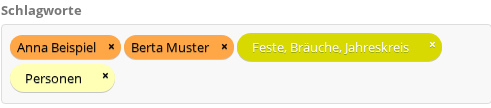
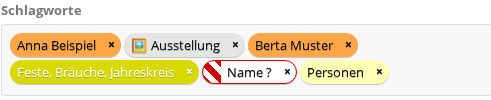
handbuch: the four special tag groups, typing a new tag, tags in the file
The tags page explains Kategorie ? and Name ? (owner's meaning), Ausstellung
and the groups that stay local, Freitext, the picture page's new-tag field
and that tags are written into the photo file. The demo photo carries a
striped and an emoji tag; shots 09, 11-15, 17, 18 and 22 re-taken (09 and
13 after the admin chip fix).

diff --git a/handbuch/04-schlagworte.html b/handbuch/04-schlagworte.html
@@ -15,7 +15,9 @@
   der Verwaltung unter <span class="pwgScreen">Schlagworte</span>
   (<code>admin.php?page=tags</code>) angelegt und dort oder an einem einzelnen Foto zugeordnet.
   Ein Teil der Schlagworte trägt eine Farbe. Farbige Schlagworte können angemeldete Benutzer
-  auch direkt auf der Fotoseite setzen, ohne Zugang zur Verwaltung.
+  auch direkt auf der Fotoseite setzen, ohne Zugang zur Verwaltung, und dort auch ein neues
+  Schlagwort eintippen. Die Schlagworte eines Fotos werden außerdem in seine Bilddatei
+  geschrieben, siehe <a href="#bilddatei">Schlagworte in der Bilddatei</a>.
 </p>
 
 <h3>Schlagworte anlegen, umbenennen und löschen</h3>
@@ -125,6 +127,12 @@
   <figcaption>Die Schlagworte eines Fotos. Farbige Schlagworte tragen ihre Farbe, die übrigen die Standardfarbe des Feldes.</figcaption>
 </figure>
 
+<p>
+  Ein Name, den es noch nicht gibt, wird beim Sichern als neues Schlagwort angelegt und kommt
+  in die Gruppe <strong>Freitext</strong>, siehe
+  <a href="#besondere">Die vier besonderen Gruppen</a>.
+</p>
+
 <div class="hinweis">
   <p>
     Beim Sichern ersetzt die Liste im Feld die bisherigen Schlagworte des Fotos vollständig.
@@ -138,7 +146,8 @@
 <p>
   Ein Schlagwort kann eine Farbe bekommen. Farbige Schlagworte werden überall als farbige
   Plakette dargestellt und sind dadurch auf einen Blick von den übrigen zu unterscheiden. In
-  dieser Galerie sind acht Schlagworte farbig:
+  dieser Galerie gibt es zwölf Farben (im Folgenden auch Gruppen genannt). Elf davon tragen je
+  ein gleichnamiges Schlagwort; diese acht sind die Themen:
 </p>
 
 <ul>
@@ -151,6 +160,10 @@
   <li>Stationen durch das Leben</li>
   <li>Vereine, Gruppierungen</li>
 </ul>
+
+<p>
+  Die übrigen vier sind besondere Gruppen mit eigener Bedeutung, siehe den nächsten Abschnitt.
+</p>
 
 <p>Eine Farbe wird in der Schlagwortverwaltung vergeben:</p>
 
@@ -173,6 +186,48 @@
   </li>
 </ol>
 
+<h3 id="besondere">Die vier besonderen Gruppen</h3>
+
+<p>
+  Vier Farben sehen anders aus als die übrigen: zwei tragen am linken Rand einen rot-weiß
+  gestreiften Rand, zwei ein kleines Bild vor dem Namen.
+</p>
+
+<ul>
+  <li>
+    <strong>Kategorie ?</strong> (rot-weiß gestreift): ein Merkzeichen für ein Foto, bei dem
+    noch offen ist, zu welchem der farbigen Schlagworte es gehört. Ist das geklärt, das
+    passende Schlagwort setzen und <strong>Kategorie ?</strong> wieder entfernen.
+  </li>
+  <li>
+    <strong>Name ?</strong> (rot-weiß gestreift): ein Merkzeichen für ein Foto, auf dem noch
+    nicht alle Personen erkannt sind. Ist der Name bekannt, die Person markieren (siehe
+    <a href="05-personen.html">Personen auf Fotos markieren</a>) und
+    <strong>Name ?</strong> wieder entfernen.
+  </li>
+  <li>
+    <strong>Ausstellung</strong> (mit einem gerahmten Bild davor): kennzeichnet Fotos für eine
+    Ausstellung.
+  </li>
+  <li>
+    <strong>Freitext</strong> (mit einer schreibenden Hand davor): sammelt die Schlagworte, die
+    beim Zuordnen neu eingetippt wurden, auf der Fotoseite ebenso wie in den Eigenschaften
+    eines Fotos oder in der Stapelverarbeitung. Jedes davon trägt die schreibende Hand. Ein
+    Schlagwort, das in der Schlagwortverwaltung mit <strong>Schlagwort hinzufügen</strong>
+    angelegt wird, kommt nicht hierher.
+  </li>
+</ul>
+
+<div class="hinweis">
+  <p>
+    Schlagworte mit der Farbe <strong>Ausstellung</strong>, <strong>Kategorie ?</strong> oder
+    <strong>Name ?</strong>, gleich wie sie heißen, sowie jedes Schlagwort und jede Farbe mit
+    einem Fragezeichen im Namen bleiben in dieser Galerie. Sie
+    werden nicht in die Bilddatei geschrieben und erscheinen deshalb auch nicht in der
+    Online-Galerie, die aus den Bilddateien aufgebaut wird.
+  </p>
+</div>
+
 <h3>Farbige Schlagworte auf der Fotoseite setzen</h3>
 
 <p>
@@ -185,12 +240,12 @@
 
 <figure>
   <img src="assets/screenshots/14-schlagwort-badges.png" alt="Die vergebenen Schlagworte eines Fotos" />
-  <figcaption>Vergebene Schlagworte. Farbige tragen ein x zum Entfernen.</figcaption>
+  <figcaption>Vergebene Schlagworte. Farbige tragen ein x zum Entfernen; Name ? ist gestreift, Ausstellung trägt sein Bild.</figcaption>
 </figure>
 
 <figure>
-  <img src="assets/screenshots/15-schlagwort-hinzufuegen.png" alt="Noch nicht vergebene farbige Schlagworte" />
-  <figcaption>Die noch nicht vergebenen farbigen Schlagworte, jeweils mit einem Pluszeichen.</figcaption>
+  <img src="assets/screenshots/15-schlagwort-hinzufuegen.png" alt="Noch nicht vergebene farbige Schlagworte und das Feld für ein neues Schlagwort" />
+  <figcaption>Die noch nicht vergebenen farbigen Schlagworte, jeweils mit einem Pluszeichen, darunter das Feld für ein neues Schlagwort.</figcaption>
 </figure>
 
 <ul>
@@ -203,14 +258,46 @@
     <strong>Entfernen</strong>: auf das <strong>x</strong> einer vergebenen farbigen Plakette
     klicken. Der Kurzhinweis lautet <em>Schlagwort entfernen</em>.
   </li>
+  <li>
+    <strong>Eintippen</strong>: den Namen in das Feld <strong>Neues Schlagwort
+    eingeben</strong> schreiben und <strong>Hinzufügen</strong> klicken oder die Eingabetaste
+    drücken. Ein neuer Name wird als Schlagwort angelegt und kommt in die Gruppe
+    <strong>Freitext</strong>. Gibt es den Namen schon, wird das vorhandene Schlagwort
+    zugeordnet und behält seine Farbe. Schlägt das fehl, steht der Grund neben dem Feld und
+    der eingetippte Text bleibt stehen.
+  </li>
 </ul>
 
 <p>
-  Beides wirkt sofort, ohne Speichern. Vergebene Schlagworte stehen in einer Zeile, durch
-  Kommas getrennt; farbige als Plakette, farblose als schlichter Text. Schlagworte ohne Farbe
-  lassen sich hier nicht ändern und werden in der Verwaltung gepflegt. Nicht angemeldete
-  Besucher sehen weder das <strong>+</strong> noch das <strong>x</strong>.
+  Alles wirkt sofort, ohne Speichern. Vergebene Schlagworte stehen in einer Zeile, durch
+  Kommas getrennt; farbige als Plakette, farblose als schlichter Text. Ein Schlagwort ohne
+  Farbe lässt sich hier nur durch Eintippen seines Namens zuordnen; entfernt wird es in der
+  Verwaltung. Nicht angemeldete Besucher sehen weder das <strong>+</strong> noch das
+  <strong>x</strong> noch das Feld.
 </p>
+
+<h3 id="bilddatei">Schlagworte in der Bilddatei</h3>
+
+<p>
+  Ändern sich die Schlagworte eines Fotos, auf welchem Weg auch immer, werden sie auch in die
+  Bilddatei geschrieben, zusammen mit dem Namen ihrer Farbe. Andere Bildprogramme zeigen sie
+  dann als Stichwörter der Datei. Ausgenommen sind die Schlagworte, die nur in dieser Galerie
+  bleiben (siehe <a href="#besondere">Die vier besonderen Gruppen</a>).
+</p>
+
+<ul>
+  <li>
+    Geschrieben wird nur, wenn sich an den Schlagworten eines Fotos etwas ändert. Ein Foto,
+    dessen Schlagworte seit Einführung dieser Funktion nicht bearbeitet wurden, trägt sie
+    noch nicht in seiner Datei.
+  </li>
+  <li>
+    Kann die Datei nicht geschrieben werden, zeigt die Verwaltung nach dem Sichern oben eine
+    Fehlermeldung, die mit <em>Photo Info:</em> beginnt. Die Schlagworte sind dann in der
+    Galerie gespeichert, die Datei blieb unverändert. In dem Fall die Verwaltung der Galerie
+    benachrichtigen.
+  </li>
+</ul>
 
 <nav class="zurueck">
   <a href="index.html">Zurück zum Inhalt</a> ·

diff --git a/handbuch/index.html b/handbuch/index.html
@@ -21,13 +21,14 @@
 <ul class="rechte">
   <li>
     <strong>Verwaltung</strong>: Alben anlegen und beschreiben, Fotos hochladen, Fototexte
-    bearbeiten und Schlagworte anlegen sind der Verwaltung vorbehalten. Ohne
+    bearbeiten und Schlagworte verwalten sind der Verwaltung vorbehalten. Ohne
     Administratorrechte ist die Verwaltung nicht erreichbar. Auch Datum und Info auf der
     Fotoseite können nur Administratoren bearbeiten.
   </li>
   <li>
-    <strong>Angemeldete Benutzer</strong>: Personen auf Fotos markieren und farbige
-    Schlagworte auf der Fotoseite vergeben oder entfernen kann jeder angemeldete Benutzer.
+    <strong>Angemeldete Benutzer</strong>: Personen auf Fotos markieren, farbige
+    Schlagworte auf der Fotoseite vergeben oder entfernen und dort ein neues Schlagwort
+    eintippen kann jeder angemeldete Benutzer.
     Gäste, also nicht angemeldete Besucher, können das nicht.
   </li>
   <li>
@@ -57,7 +58,8 @@
   </li>
   <li>
     <a href="04-schlagworte.html">4. Schlagworte vergeben</a><br />
-    Schlagworte anlegen und zuordnen sowie farbige Schlagworte direkt auf der Fotoseite setzen.
+    Schlagworte anlegen und zuordnen, farbige Schlagworte direkt auf der Fotoseite setzen, die
+    besonderen Gruppen und was davon in die Bilddatei geschrieben wird.
   </li>
   <li>
     <a href="05-personen.html">5. Personen auf Fotos markieren</a><br />

diff --git a/handbuch/tools/shoot.js b/handbuch/tools/shoot.js
@@ -591,7 +591,12 @@ const SHOTS = [
     async take(page, demo) {
       await open(page, demo.photos.sommerfest.picture_path);
       await page.waitForSelector('#typetags-unassigned .typetag-add', { timeout: ELEMENT_TIMEOUT });
-      await shoot(page.locator('#typetags-unassigned'), this.file, demo.image_dir);
+      await shootSpan(
+        page,
+        [page.locator('#typetags-unassigned'), page.locator('#typetags-new-tag')],
+        this.file,
+        demo.image_dir
+      );
     },
   },
   {

diff --git a/handbuch/tools/seed.php b/handbuch/tools/seed.php
@@ -172,11 +172,13 @@ const DEMO_PHOTO_TEXTS = array(
  * Colored tags per photo, by name.
  *
  * Existing tags of this install rather than new ones: 04-schlagworte.html
- * documents the eight German colored tags that are really there, and a
- * screenshot showing invented ones would document a gallery nobody has.
+ * documents the German colored tags that are really there, and a screenshot
+ * showing invented ones would document a gallery nobody has. The sommerfest
+ * photo also carries a striped tag and one with an emoji, so the badge shots
+ * show both looks the page explains.
  */
 const DEMO_PHOTO_TAGS = array(
-    'sommerfest'   => array('Feste, Bräuche, Jahreskreis', 'Personen'),
+    'sommerfest'   => array('Feste, Bräuche, Jahreskreis', 'Personen', 'Name ?', 'Ausstellung'),
     'rathaus'      => array('Häuser, Ortsansichten'),
     'musikkapelle' => array('Vereine, Gruppierungen', 'Feste, Bräuche, Jahreskreis'),
     'werkstatt'    => array('Gewerbe', 'Arbeiten'),
